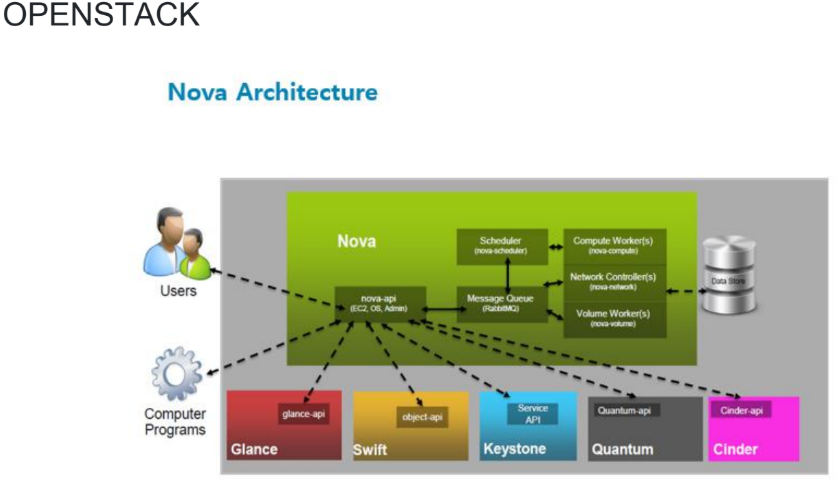
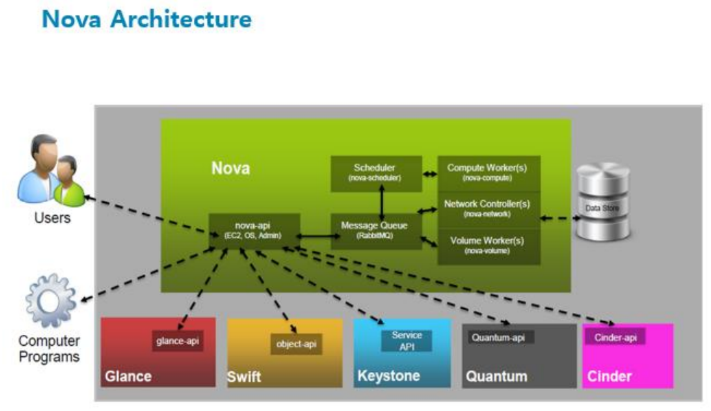
08-21

diff --git a/daily/2026-08-21.md b/daily/2026-08-21.md
@@ -105,27 +105,113 @@ AWS 기준으로(
 Shaped 서비스/ Keystone = IAM, Glance = AMI, Barbican = KeymanagerService)
 
 - - -
-1. Keystone
-![alt text](screenshot/keystone.png)
 
-2. Nova
-![alt text](image.png)
-3. Glance (이미지 서비스)
+1. Keystone(아키텍쳐)<br>
+![alt text](screenshot/Keystone.png)
+
+2. Nova(아키텍쳐) <br>
+![alt text](screenshot/Nova.png)
+
+3. Glance (이미지 서비스)<br>
 ![alt text](screenshot/Glance.png)
 ![alt text](screenshot/Glance2.png)
 
-4. Cinder
+4. Cinder<br>
 ![alt text](screenshot/Cinder.png)
 
-5. Swift
+5. Swift<br>
 ![alt text](screenshot/Swift.png)
 
+6. 쿠버네티즈
+- = 클러스트 운영체제
+- 필요한 것들을 추가적으로 설치 후 실행해야함. 모니터링. (cncf.io)
+
+- Control Plane = MASTER
+- 컨테이너를 pod(파드) 단위로
+
+- *Control Plane의 주요 커버노드는 API
+- 커버노드의 에이전트들을 Kuvelet
+- 노드의 리소스를 얼마나 사용하는지 체크
+
+- 컨테이너 배포 받아 스케쥴링 후 API로 받으면 리퀘스트 후 전달, 도커와 같은 컨테이너 엔진 설치 되어 있음(요즘은 도커보다 containerd)
+- 외부의 리퀘스트들을 수신할 수 있도록 해당 컴포넌트 필요.
 
 
+_aws 시스템을 로컬에 설치하고 싶다 = 오픈스택_
 
+**오픈스택 설치하는게 쉽지 않음. 따라서 이미지로 배포하면 노바서비스, 신더 완료되어 배포가 쉬워짐. 엔서블을 이용해서 배포할 수 있지만 helm을 이용하면 한번에 됨. 배포가 쉬워짐.리눅스 깔고 쿠버네티즈 클러스트링 하고 helm으로 배포.**
 
+쿠버네티즈 위에 helm
 
 - 프로젝트 때 스토리지 쪽에서 Glance Sec?? 사용해보면 좋음
 
+- Cloud Native Landscape
+: CNCF : 오픈소스 프로젝트를 지원하고 관리하는 비영리 단체 (성숙도 수준 = 졸업/ 인큐베이팅/ 샌드박스 순)
+
+- 자주 쓰는 것 : Argo, Istio, Cilium, 클라우드에선 CNI, 스토리지 ROOK, MINIO
+
+
+#### Migration
+CAF -> WAF
+1. AWS 클라우드 적용 프레임워크(CAF)
+- 마이그레이션에 관여해야하는 다양한 역할에 초점을 맞춘 6영역
+- 비즈니스, 인력, 거버넌스, 플랫폼, 보안, 운영 관점
+
+2. AWS 응용프로그램 마이그레이션 전략6R. (WAF) 
+- 서비스별 선별 해야함
+    * 리호스팅 : 가상머신에 설치해 실행중인데, 기존거를 수정하지 않고 위치만 바꾸는 것
+    * 리플랫포밍 : 위치를 바꿔 수정.
+    * 리팩터링 : 재공사. 대규모
+    * 재구매 : ERM(SAP), 기존 라이선스를 SaaS로 전환. 요즘은 클라우드 구독 형태로 많이 바꿈.
+    * 유지 
+    * 폐기 
+
+3. AWS SNOW 패밀리를 통한 데이터 이전
+* 온라인 = 마이그레이션, 오프라인 = USB
+* AWS Snow
+    * 온라인이 1주일 이상 걸린다면 대체로 사용.
+    * 이동할 수 있는 물리적 디바이스
+
+* AWS Snowcone
+    * 엣지컴퓨팅(EC2 인스턴스) 및 데이터 전송 디바이스
+    * CPU 2개, 4GB 메모리 및 8TB 스토리지
+
+* AWS Snowball
+    * 
+
+* AWS Snowmobile
+    * 트럭 트레일러 안에 스토리지를 빽빽히 넣어서 이동
+    * 한대당 최대 100페타바이트
+    * 서울 리전에선 서비스 불가
+
+
+#### 가상화 및 기반기술
+1. 가상화 제품
+* oVirt (RHEV의 오픈소스 버전)
+* vmware(여러 노트북을 붙일 땐 vCenter 서버)
+
+2. 가상화 기반 네트워크 기술
+* SDN : Software Defined Network
+    * 해당 하는 것만 라우팅
+    * 네트워크 장치의 기존 방식은 각 라우터에 알고리즘이 들어가고 각 라우터에서 제어 = 비용 증가, 복잡함 때문에 SDN이 생김
+* 클라우드는 여러 사용자가 리소스를 공유해서 사용 = 서로 폐쇄망에서 그들만 공유
+
+
+* NFV : network Functions Virtualization
+    * 네트워크 기능 가상화
+
+
+#### 리눅스
+
+Debian 의 우분투 주로 사용
+GCP는 데비안
+레드햇은 안정성이 좋음
+국내기업은 레드햇 많이 쓰는데 클라우드 넘어가면서 우분투 많이 씀
+
+**레드햇 계열 Rocky 선정한 이유? CentOS와 같아서**
+**일번 서버 목적이면 워크스테이션 설치 안함. 용량만 차지. 미니멀로 설치**
+
+
+
 ## 참고 링크
--
+-https://www.cncf.io/
